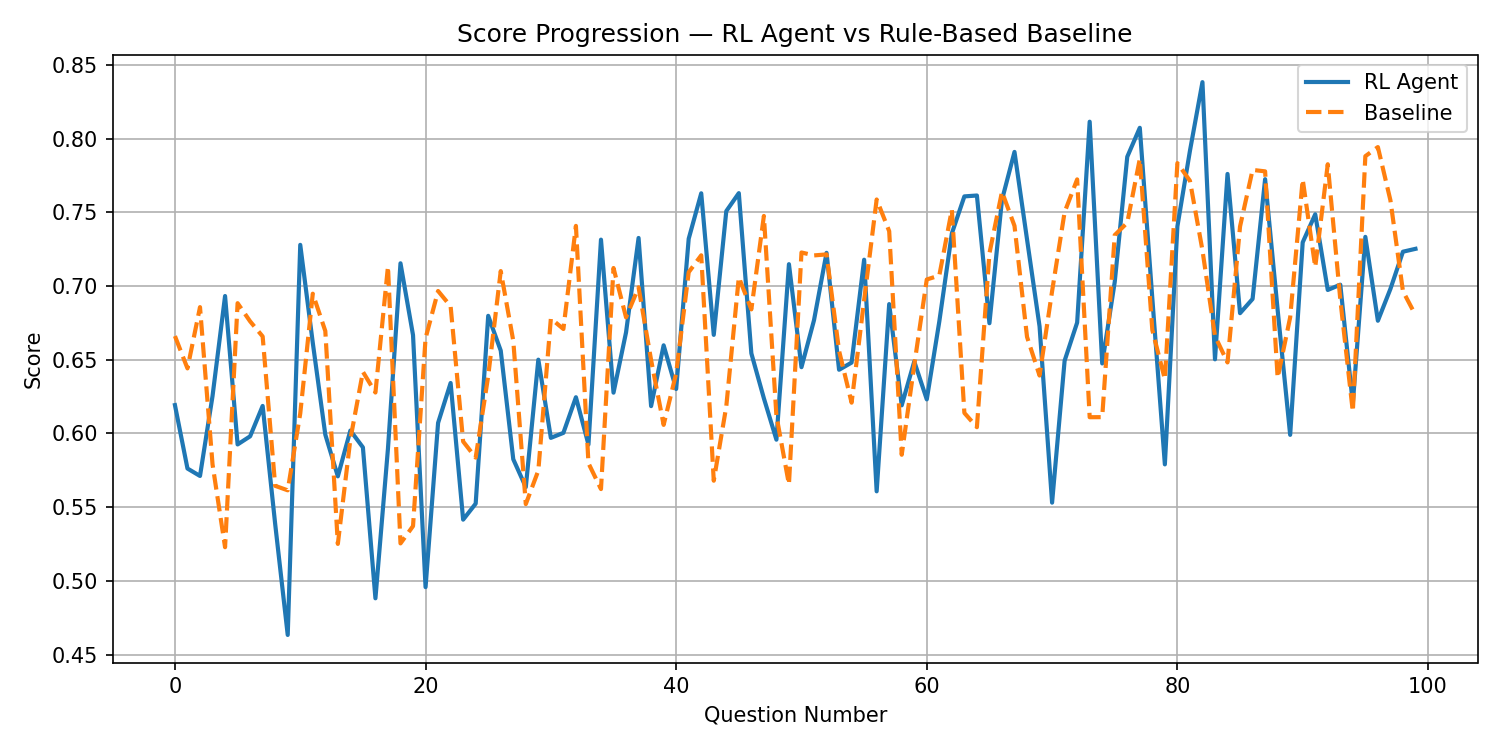
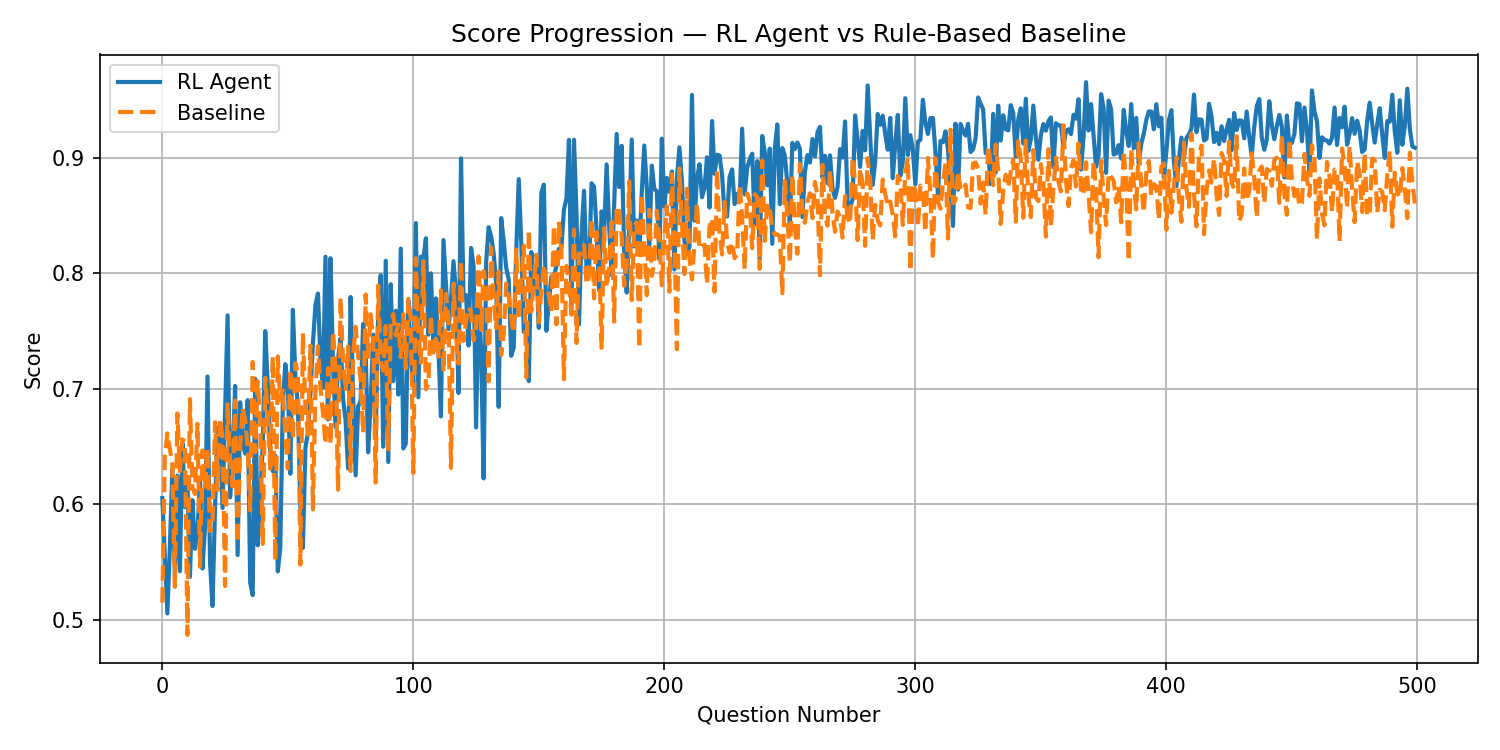
.

diff --git a/evaluate.py b/evaluate.py
@@ -265,5 +265,5 @@ if __name__ == "__main__":
         topics_difficulty,
         w1=0.4, w2=0.5, w3=0.1,
         n_students=10,
-        n_questions=100
+        n_questions=500
     )
